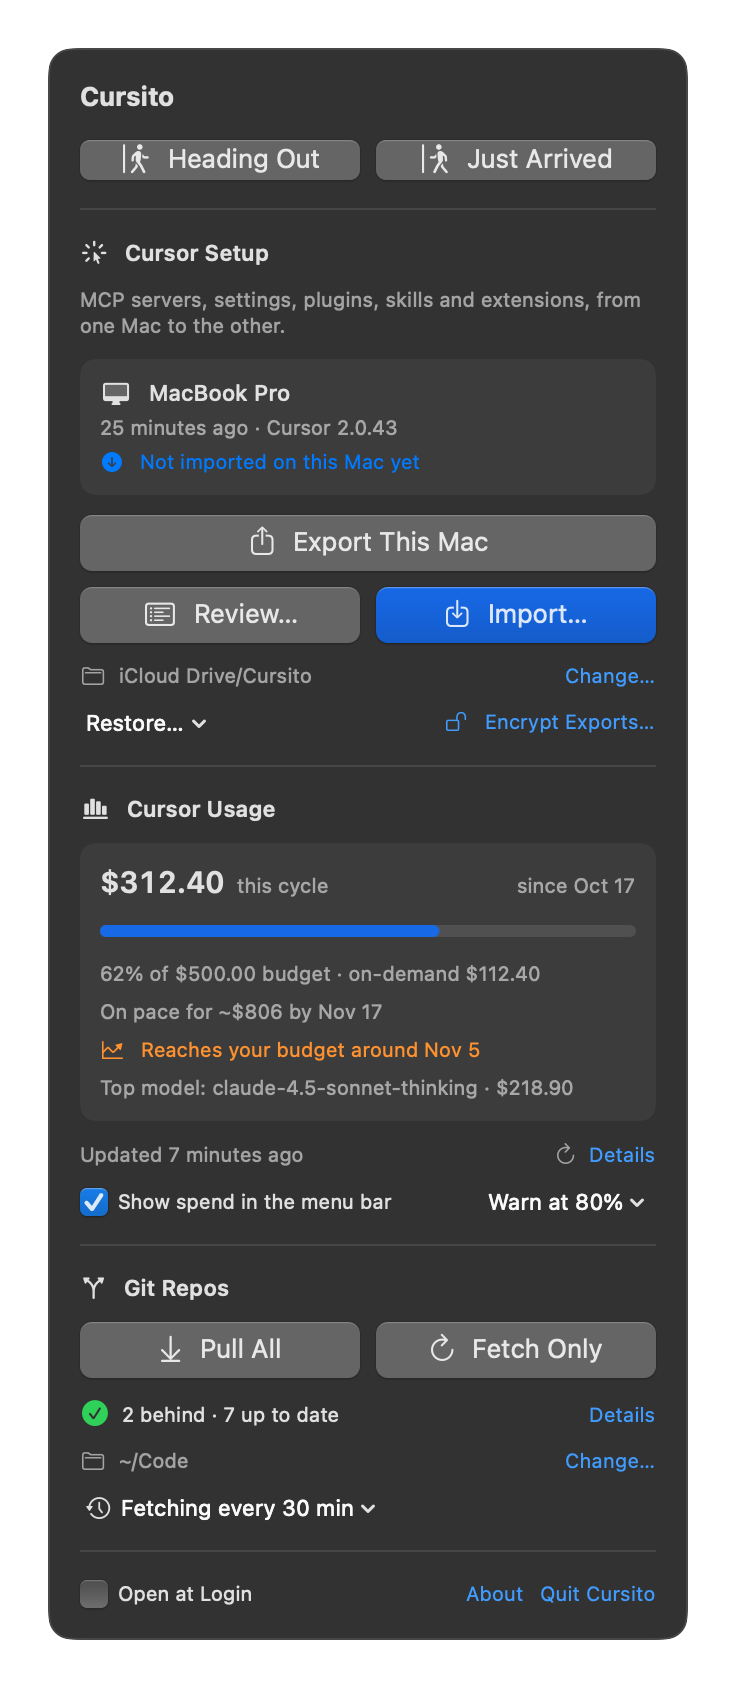
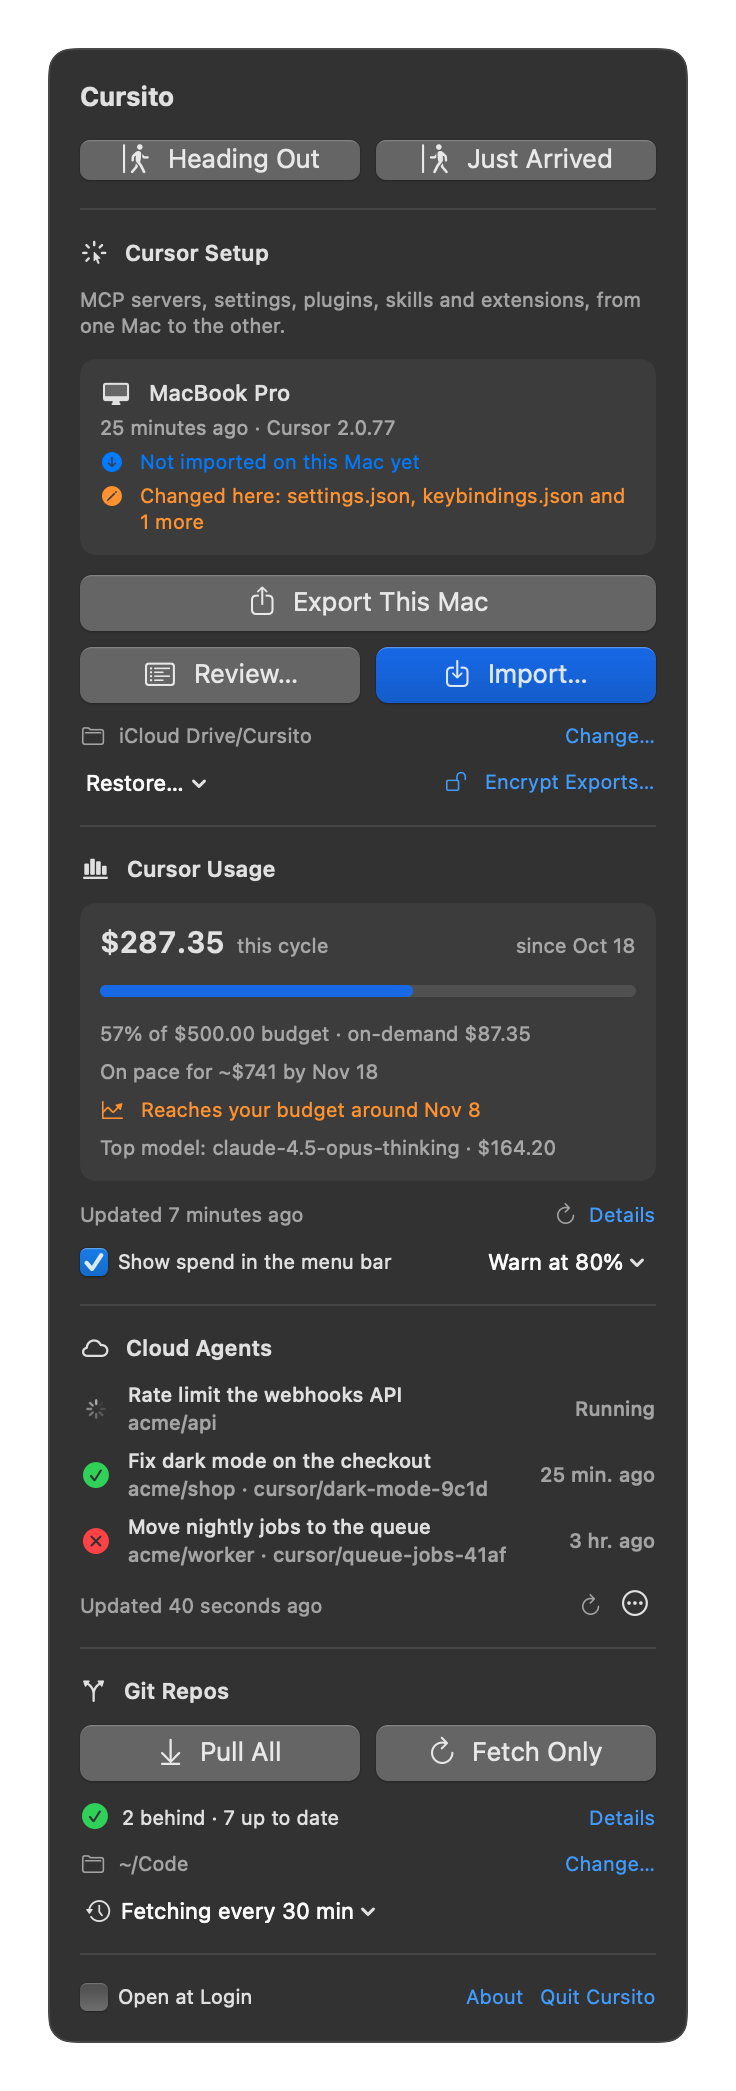
docs: refresh README screenshots for 1.2.0
The screenshots still showed the 1.1.0 menu, so the README didn't show
Cloud Agents, the unexported-changes warning or background fetch. They are
rendered again from anonymous sample data.

Changed region(s): [[0.0625, 0.0, 0.9375, 0.9858], [0.75, 0.5545, 0.875, 0.6469], [0.8125, 0.2156, 0.8438, 0.2464]]

diff --git a/README.md b/README.md
@@ -11,7 +11,7 @@
 <p align="center">
   <picture>
     <source media="(prefers-color-scheme: dark)" srcset="docs/screenshot-dark.png">
-    <img src="docs/screenshot-light.png" width="368" alt="Cursito's menu: the Cursor setup from the other Mac waiting to be imported, this cycle's spend against a budget, and git repos with new commits">
+    <img src="docs/screenshot-light.png" width="368" alt="Cursito's menu: the Cursor setup from the other Mac waiting to be imported next to this Mac's unexported changes, this cycle's spend against a budget, cloud agents running, finished and failed, and git repos with new commits from the background fetch">
   </picture>
 </p>
 
